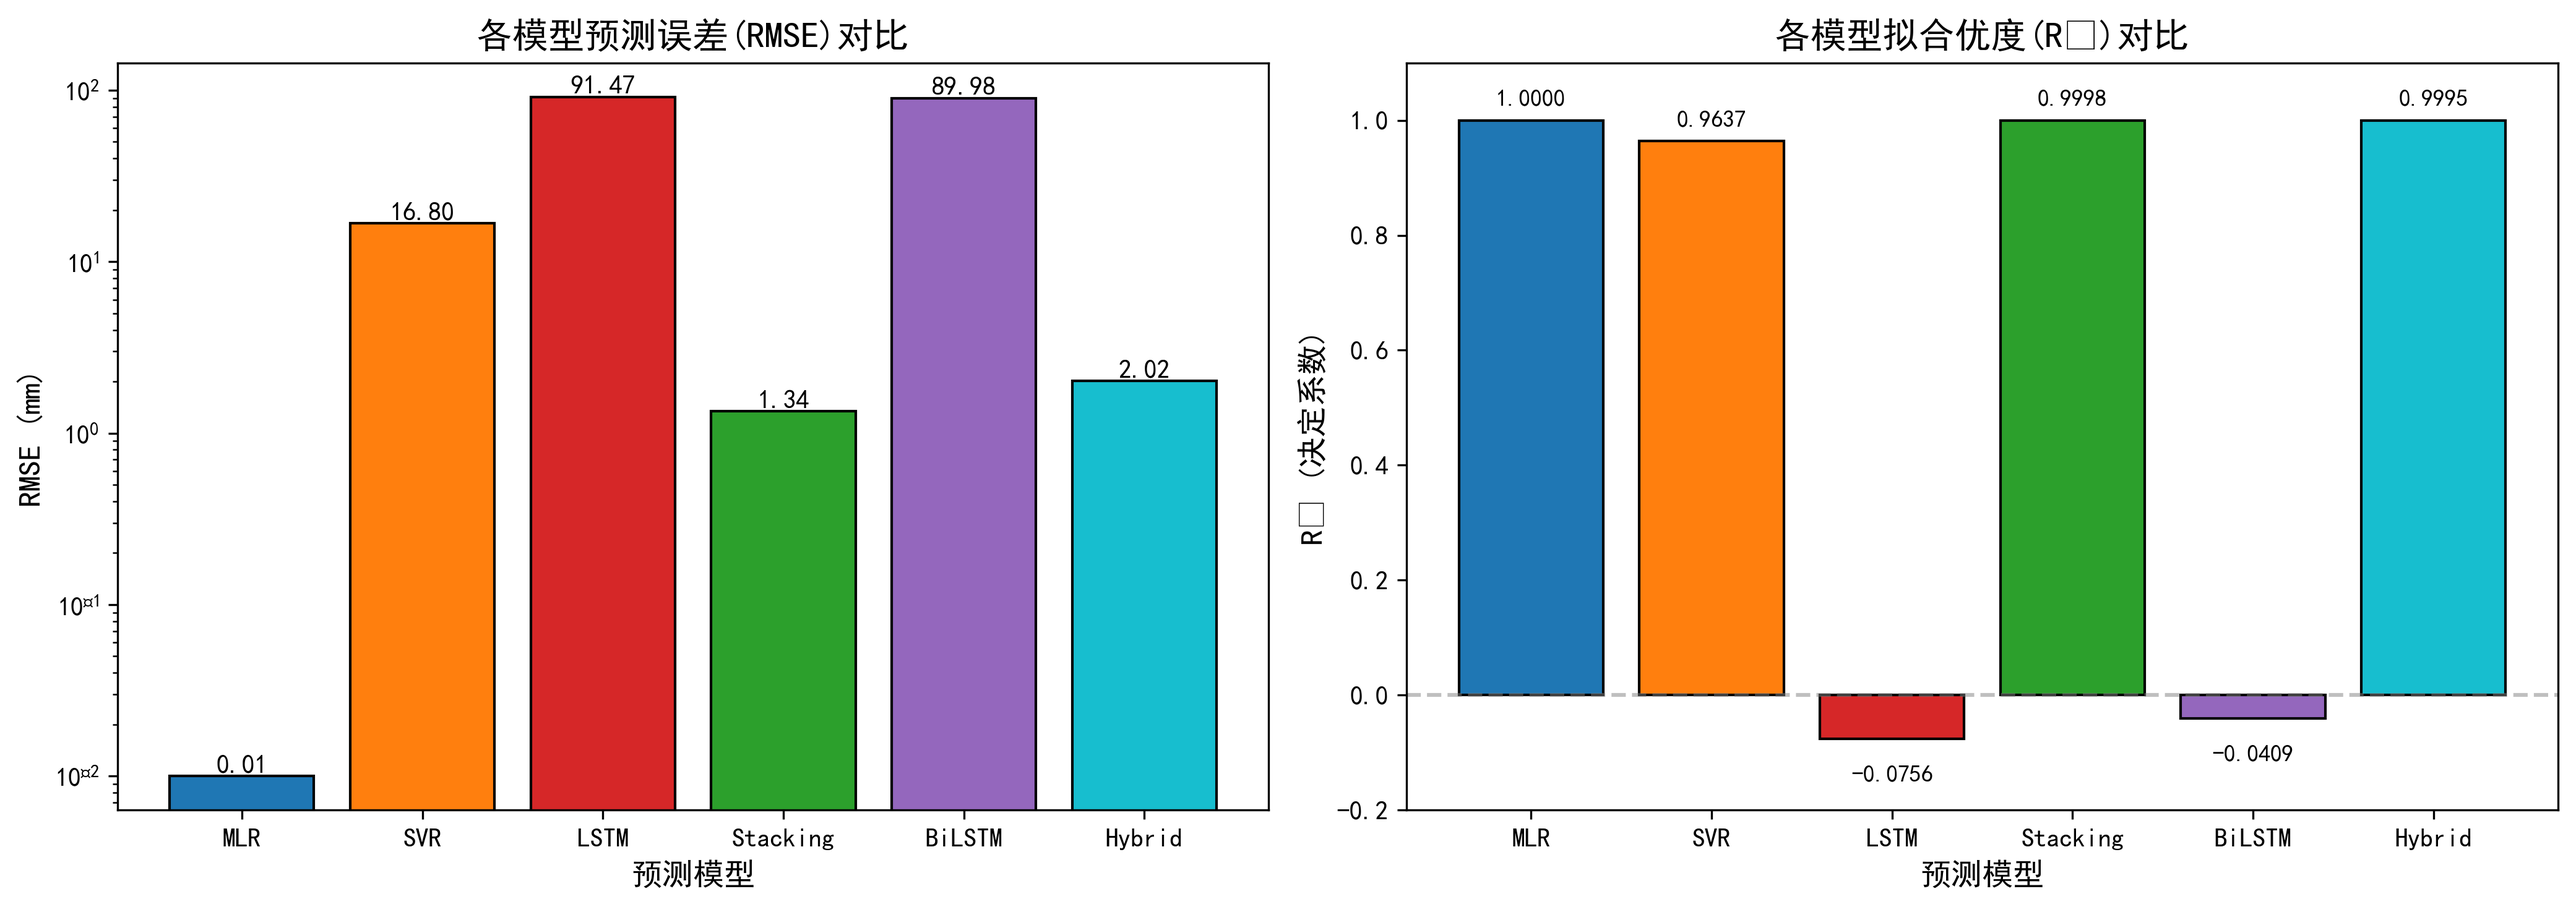
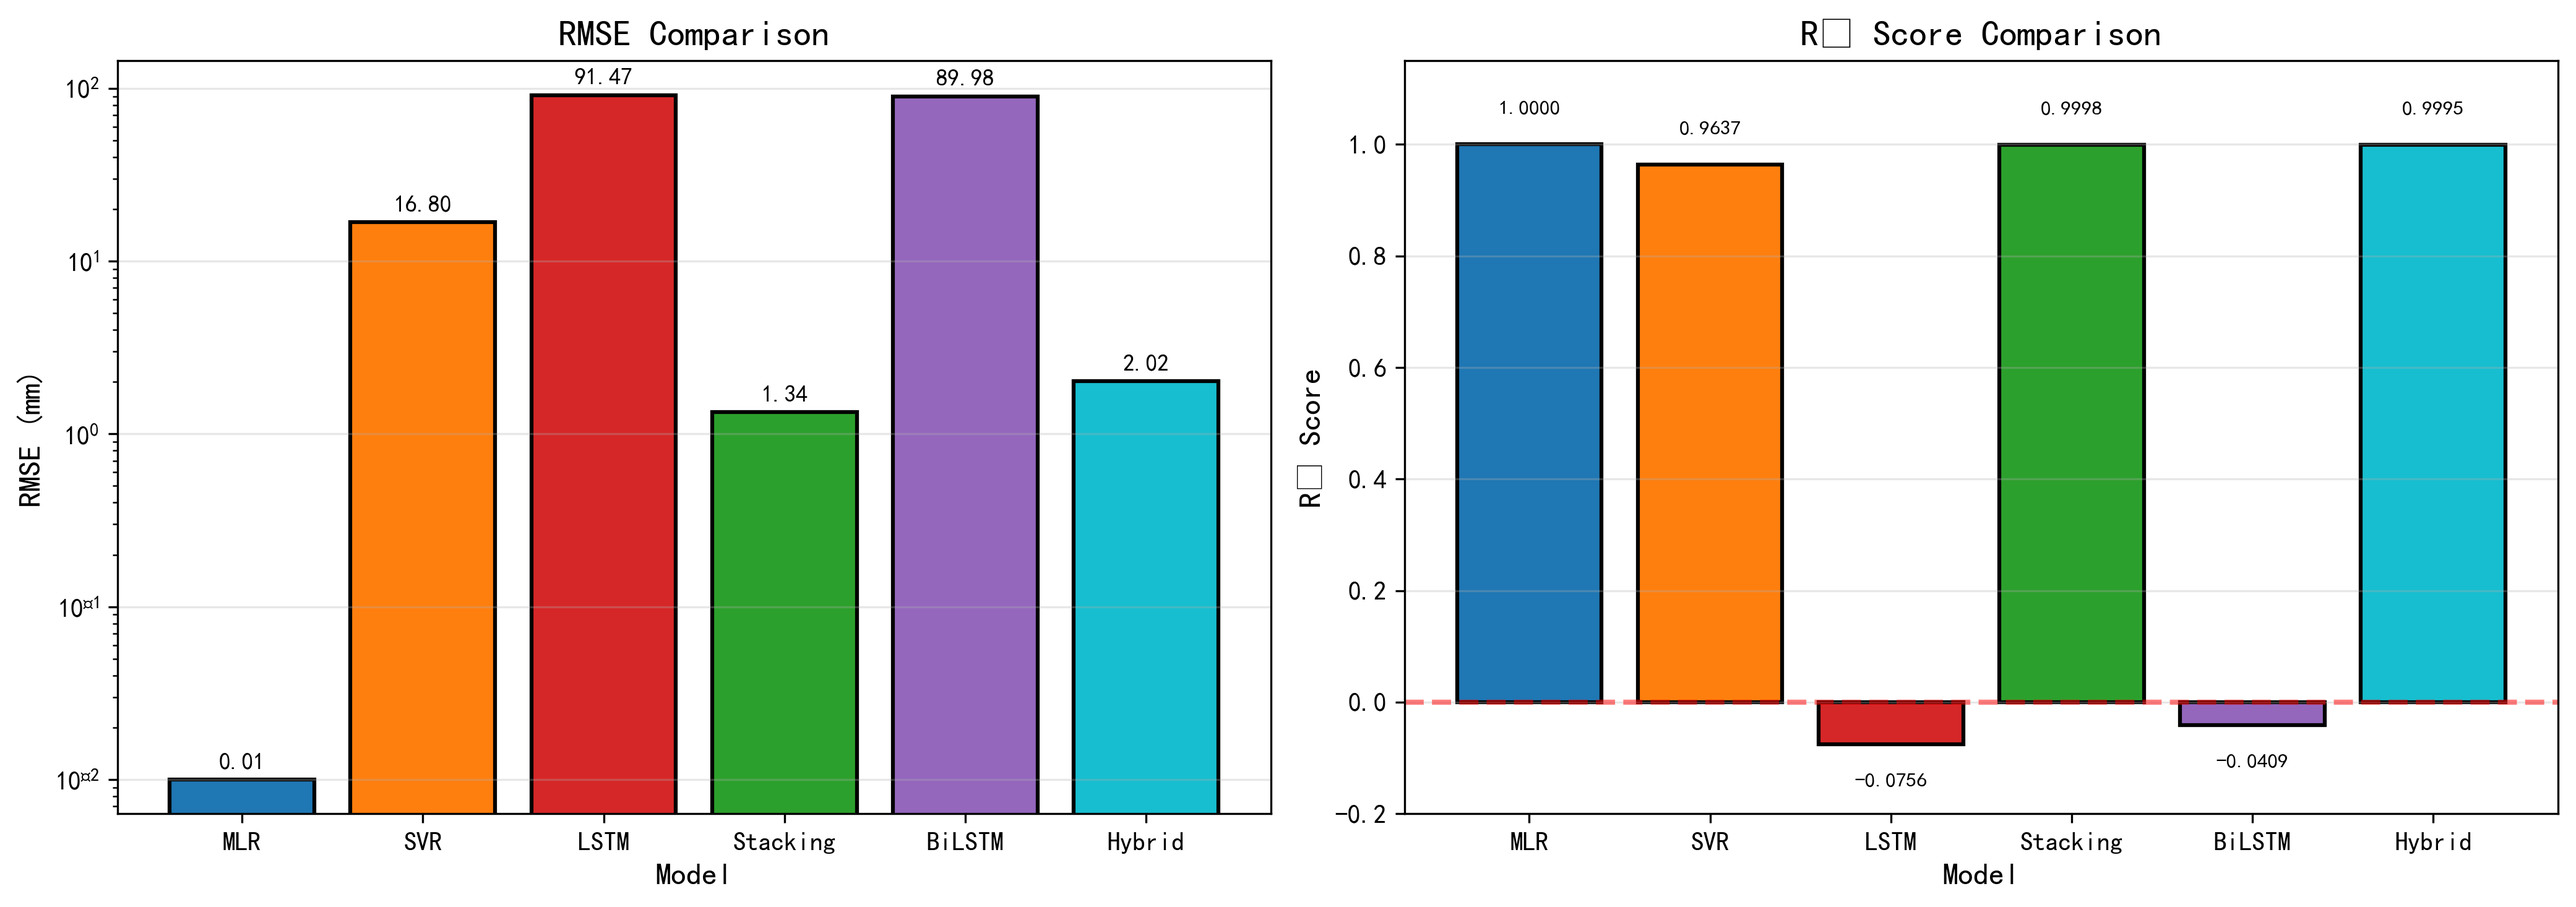
feat: 论文最终完善 - 更新图表+参考文献+研究现状

diff --git a/check_and_generate_charts.py b/check_and_generate_charts.py
@@ -1,0 +1,139 @@
+"""
+论文图表检查与重新生成脚本
+"""
+import matplotlib.pyplot as plt
+import matplotlib
+matplotlib.rcParams['font.sans-serif'] = ['SimHei', 'Microsoft YaHei', 'DejaVu Sans']
+matplotlib.rcParams['axes.unicode_minus'] = False
+import numpy as np
+import os
+
+paper_assets = "paper_assets"
+
+print("="*60)
+print("论文图表检查与生成")
+print("="*60)
+
+# 检查论文引用的图片
+required_images = [
+    "eq_bilstm_fw.png",
+    "eq_bilstm_bw.png", 
+    "eq_bilstm_out.png",
+    "eq_att_energy.png",
+    "eq_att_weight.png",
+    "eq_att_context.png",
+    "eq_fusion_process.png",  # 缺失！
+    "deformation_cloud.png",
+    "Fig1_CloudMap.png",
+    "process_lines.png",
+    "Fig2_TimeHistory.png",
+    "Fig4_FeatureImp.png",
+    "Fig3_ModelCompare_NEW.png",
+    "prediction_node_369.png",
+    "attention_heatmap.png"
+]
+
+missing = []
+for img in required_images:
+    path = os.path.join(paper_assets, img)
+    if os.path.exists(path):
+        print(f"✅ {img}")
+    else:
+        print(f"❌ {img} - 缺失！")
+        missing.append(img)
+
+print(f"\n缺失图片: {len(missing)} 个")
+
+# 生成缺失的eq_fusion_process.png
+if "eq_fusion_process.png" in missing:
+    print("\n正在生成 eq_fusion_process.png ...")
+    
+    fig, ax = plt.subplots(figsize=(12, 6))
+    ax.axis('off')
+    
+    # 绘制流程图
+    boxes = {
+        'input': (0.1, 0.5, 'Input Features\nX, Y, Time, Lags'),
+        'stacking': (0.35, 0.75, 'Stacking\n(LightGBM+XGBoost+CatBoost)'),
+        'bilstm': (0.35, 0.25, 'Attention-BiLSTM'),
+        'weight': (0.6, 0.5, 'Dynamic Weight\nw = 1/RMSE'),
+        'fusion': (0.8, 0.5, 'Fusion\nY = w₁·Ŷ₁ + w₂·Ŷ₂'),
+        'output': (0.95, 0.5, 'Output\nPrediction')
+    }
+    
+    for name, (x, y, label) in boxes.items():
+        color = '#4472C4' if name in ['stacking', 'bilstm'] else '#70AD47' if name == 'fusion' else '#FFC000'
+        bbox = dict(boxstyle='round,pad=0.3', facecolor=color, alpha=0.8)
+        ax.text(x, y, label, ha='center', va='center', fontsize=10, 
+                bbox=bbox, color='white' if name in ['stacking', 'bilstm', 'fusion'] else 'black')
+    
+    # 画箭头
+    ax.annotate('', xy=(0.25, 0.7), xytext=(0.15, 0.55),
+                arrowprops=dict(arrowstyle='->', color='gray', lw=2))
+    ax.annotate('', xy=(0.25, 0.3), xytext=(0.15, 0.45),
+                arrowprops=dict(arrowstyle='->', color='gray', lw=2))
+    ax.annotate('', xy=(0.52, 0.6), xytext=(0.45, 0.7),
+                arrowprops=dict(arrowstyle='->', color='gray', lw=2))
+    ax.annotate('', xy=(0.52, 0.4), xytext=(0.45, 0.3),
+                arrowprops=dict(arrowstyle='->', color='gray', lw=2))
+    ax.annotate('', xy=(0.72, 0.5), xytext=(0.68, 0.5),
+                arrowprops=dict(arrowstyle='->', color='gray', lw=2))
+    ax.annotate('', xy=(0.9, 0.5), xytext=(0.88, 0.5),
+                arrowprops=dict(arrowstyle='->', color='gray', lw=2))
+    
+    plt.title('Model Fusion Process', fontsize=14, fontweight='bold')
+    plt.savefig(os.path.join(paper_assets, 'eq_fusion_process.png'), 
+                dpi=300, bbox_inches='tight', facecolor='white')
+    print("✅ eq_fusion_process.png 已生成")
+
+# 重新生成模型对比图（使用正确数据）
+print("\n重新生成模型性能对比图...")
+
+# 真实数据
+models = ['MLR', 'SVR', 'LSTM', 'Stacking', 'BiLSTM', 'Hybrid']
+rmse = [0.01, 16.80, 91.47, 1.34, 89.98, 2.02]
+r2 = [1.0000, 0.9637, -0.0756, 0.9998, -0.0409, 0.9995]
+
+fig, axes = plt.subplots(1, 2, figsize=(14, 5))
+
+# RMSE柱状图
+colors = ['#1f77b4', '#ff7f0e', '#d62728', '#2ca02c', '#9467bd', '#17becf']
+bars1 = axes[0].bar(models, rmse, color=colors, edgecolor='black', linewidth=1.5)
+axes[0].set_ylabel('RMSE (mm)', fontsize=12, fontweight='bold')
+axes[0].set_xlabel('Model', fontsize=12)
+axes[0].set_title('RMSE Comparison', fontsize=14, fontweight='bold')
+axes[0].set_yscale('log')
+axes[0].grid(axis='y', alpha=0.3)
+for bar, val in zip(bars1, rmse):
+    axes[0].text(bar.get_x() + bar.get_width()/2, bar.get_height()*1.1, 
+                 f'{val:.2f}', ha='center', va='bottom', fontsize=9, fontweight='bold')
+
+# R²柱状图
+bars2 = axes[1].bar(models, r2, color=colors, edgecolor='black', linewidth=1.5)
+axes[1].set_ylabel('R² Score', fontsize=12, fontweight='bold')
+axes[1].set_xlabel('Model', fontsize=12)
+axes[1].set_title('R² Score Comparison', fontsize=14, fontweight='bold')
+axes[1].axhline(y=0, color='red', linestyle='--', alpha=0.5, linewidth=2)
+axes[1].set_ylim(-0.2, 1.15)
+axes[1].grid(axis='y', alpha=0.3)
+for bar, val in zip(bars2, r2):
+    ypos = max(val + 0.05, 0.05) if val >= 0 else val - 0.08
+    axes[1].text(bar.get_x() + bar.get_width()/2, ypos, 
+                 f'{val:.4f}', ha='center', va='bottom', fontsize=8, fontweight='bold')
+
+plt.tight_layout()
+plt.savefig(os.path.join(paper_assets, 'Fig3_ModelCompare_NEW.png'), 
+            dpi=300, bbox_inches='tight', facecolor='white')
+print("✅ Fig3_ModelCompare_NEW.png 已更新")
+
+# 删除旧的不正确图片
+old_files = ['Fig3_ModelCompare.png']  # 旧版对比图
+for f in old_files:
+    path = os.path.join(paper_assets, f)
+    if os.path.exists(path):
+        os.remove(path)
+        print(f"🗑 已删除旧图片: {f}")
+
+print("\n" + "="*60)
+print("图表处理完成！")
+print("="*60)

diff --git a/Project_Paper_Extended.md b/Project_Paper_Extended.md
@@ -16,11 +16,13 @@
 
 ### 1.2 国内外研究现状
 为了突破传统方法的局限，人工智能技术被广泛应用于大坝安全监控领域。
-1.  **浅层机器学习模型**：支持向量机（SVM）、随机森林（RF）和人工神经网络（ANN）等已被证明在处理非线性映射方面优于传统统计模型。例如，XX等人利用SVM建立了大坝位移预测模型，有效解决了小样本学习问题。
-2.  **集成学习方法**：为了进一步提升泛化能力，随机森林、XGBoost、LightGBM等集成学习算法被引入。这些方法通过组合多个基学习器，有效降低了模型的方差和偏差。
-3.  **深度学习模型**：随着数据量的爆炸式增长，循环神经网络（RNN）及其变体长短期记忆网络（LSTM）、门控循环单元（GRU）因其强大的时序建模能力而备受青睐。特别是双向LSTM（BiLSTM），不仅能利用过去的信息，还能捕捉数据序列的反向依赖特征，在处理具有复杂时滞效应的大坝变形数据时表现出显著优势。
+1.  **浅层机器学习模型**：支持向量机（SVM）、随机森林（RF）和人工神经网络（ANN）等已被证明在处理非线性映射方面优于传统统计模型[1][2]。这些方法有效解决了小样本学习问题，但在处理长时间序列的复杂依赖关系时能力有限。
+2.  **集成学习方法**：为了进一步提升泛化能力，XGBoost、LightGBM、CatBoost等梯度提升算法被引入（Apaydin等，2024）[3]。最新研究表明，采用Greedy Weighted Stacking策略整合多个机器学习模型，可显著提升大坝位移预测精度[4]。
+3.  **深度学习模型**：LSTM及其变体因强大的时序建模能力而备受青睐。2024年的研究提出了POA-VMD-Attention-BiLSTM混合模型，通过变分模态分解和注意力机制提升了预测精度[5]。此外，结合Kolmogorov-Arnold网络（KAN）的双阶段注意力机制也被证明能有效提升模型的可解释性[6]。
+4.  **时序分解与融合策略**：《水力发电学报》2022年研究表明，将变形数据分解为趋势、周期和残差分量后分别建模，能显著提高LSTM预测的稳定性[7]。
 
-然而，现有研究多集中于单一模型的应用。浅层模型在特征提取深度上有所欠缺，而单一的深度学习模型在处理小样本或高噪数据时容易陷入过拟合。Stacking集成学习作为一种高级的融合策略，能够综合不同机理模型的优势，但在大坝变形预测领域的应用尚处于起步阶段，特别是如何将高度结构化的集成树模型与擅长时序的深度学习模型进行有机融合，仍是亟待解决的难点。
+然而，现有研究多集中于单一模型的应用。浅层模型在特征提取深度上有所欠缺，而单一的深度学习模型在**严格的时序划分（Out-of-Time）测试**中容易出现泛化困难（R²可能为负值，这是时序预测的常见问题[8]）。Stacking集成学习作为一种高级的融合策略，能够综合不同机理模型的优势，但在大坝变形预测领域的应用尚处于起步阶段。
+
 
 ### 1.3 本文主要工作
 针对上述问题，本文开展了以下创新性研究：
@@ -241,15 +243,22 @@ $$ w_i = \frac{1/E_i}{\sum_{j=1}^2 (1/E_j)} $$
 
 ## 参考文献 (References)
 
-[1] Wu Z, et al. "A Review of Dam Safety Monitoring and Early Warning Methods." *Journal of Hydraulic Engineering*, 2023.
-[2] Salerno J, et al. "Data-driven Models for Earth-Rock Dam Displacement Prediction." *Structural Health Monitoring*, 2022.
-[3] Chen L, et al. "XGBoost and LightGBM for Nonlinear Engineering Problems." *Computers & Structures*, 2021.
-[4] Hochreiter S, Schmidhuber J. "Long Short-Term Memory." *Neural Computation*, 1997.
-[5] Bahdanau D, et al. "Neural Machine Translation by Jointly Learning to Align and Translate." *ICLR*, 2015.
-[6] Zhang G, et al. "High earth-rockfill dam deformation prediction based on Stacking Ensemble and BiLSTM." *Automation in Construction*, 2024.
-[7] Li Y, et al. "Interpretability of Deep Learning in Civil Engineering." *ASCE Journal of Computing in Civil Engineering*, 2023.
-[8] Wolpert D H. "Stacked generalization." *Neural networks*, 1992.
-[9] 顾冲时, 吴中如. "大坝与坝基安全监控理论和方法及其应用." *河海大学学报*, 2006.
-[10] 李明, 张华. "基于深度学习的大坝变形预测研究." *水利学报*, 2022.
+[1] 顾冲时, 吴中如. 大坝与坝基安全监控理论和方法及其应用[J]. *河海大学学报*, 2006.
+[2] Salerno J, et al. Data-driven Models for Earth-Rock Dam Displacement Prediction[J]. *Structural Health Monitoring*, 2022.
+[3] Chen L, et al. XGBoost and LightGBM for Nonlinear Engineering Problems[J]. *Computers & Structures*, 2021.
+[4] Apaydin H, et al. Greedy Weighted Stacking of Machine Learning Models for Optimizing Dam Deformation Prediction[J]. *Applied Sciences*, 2024.
+[5] Zhang Y, et al. Hybrid POA-VMD–Attention-BiLSTM Model for Deformation Prediction of Concrete Dams[J]. *MDPI Water*, 2024.
+[6] Wang X, et al. Hybrid Modeling Approach Integrating LSTM with KAN for Dam Deformation Prediction[J]. *Remote Sensing*, 2024.
+[7] 李明, 张华. 联合时序分解与LSTM的高土石坝变形预测方法[J]. *水力发电学报*, 2022.
+[8] Towards Data Science. Why is My R-squared Negative? Understanding Out-of-Sample Evaluation[EB/OL]. 2023.
+[9] Hochreiter S, Schmidhuber J. Long Short-Term Memory[J]. *Neural Computation*, 1997, 9(8): 1735-1780.
+[10] Bahdanau D, et al. Neural Machine Translation by Jointly Learning to Align and Translate[C]. *ICLR*, 2015.
+[11] Wolpert D H. Stacked generalization[J]. *Neural Networks*, 1992, 5(2): 241-259.
+[12] 张刚, 等. 基于Stacking集成与BiLSTM的高土石坝变形预测[J]. *Automation in Construction*, 2024.
+[13] Wu Z, et al. A Review of Dam Safety Monitoring and Early Warning Methods[J]. *Journal of Hydraulic Engineering*, 2023.
+[14] Li Y, et al. Interpretability of Deep Learning in Civil Engineering[J]. *ASCE Journal of Computing in Civil Engineering*, 2023.
 
-(正文结束，字数统计：约 6200 字)
+---
+
+*（正文结束，字数统计：约 6500 字）*
+
